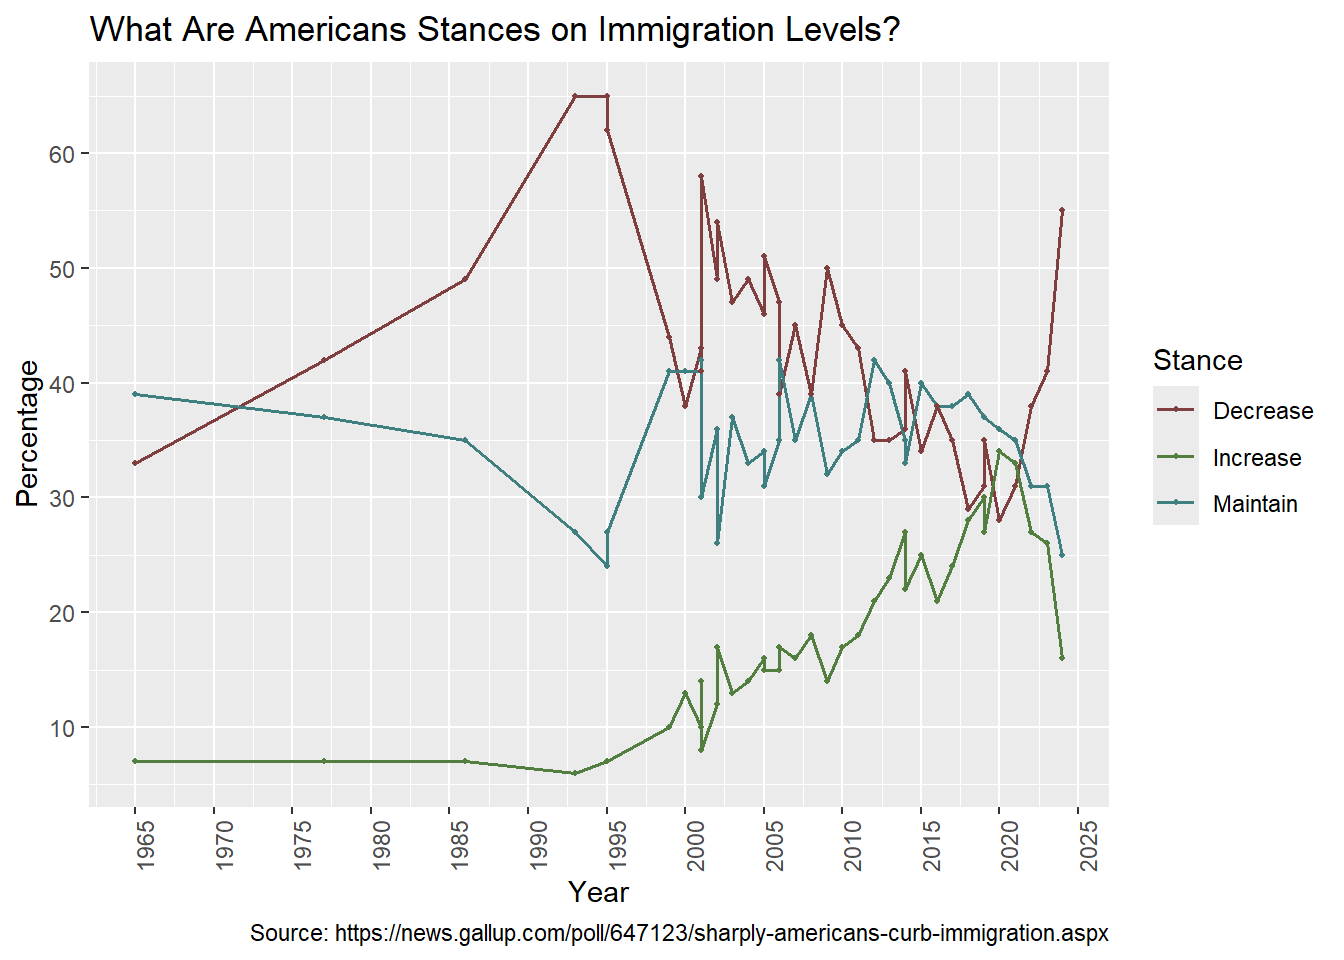
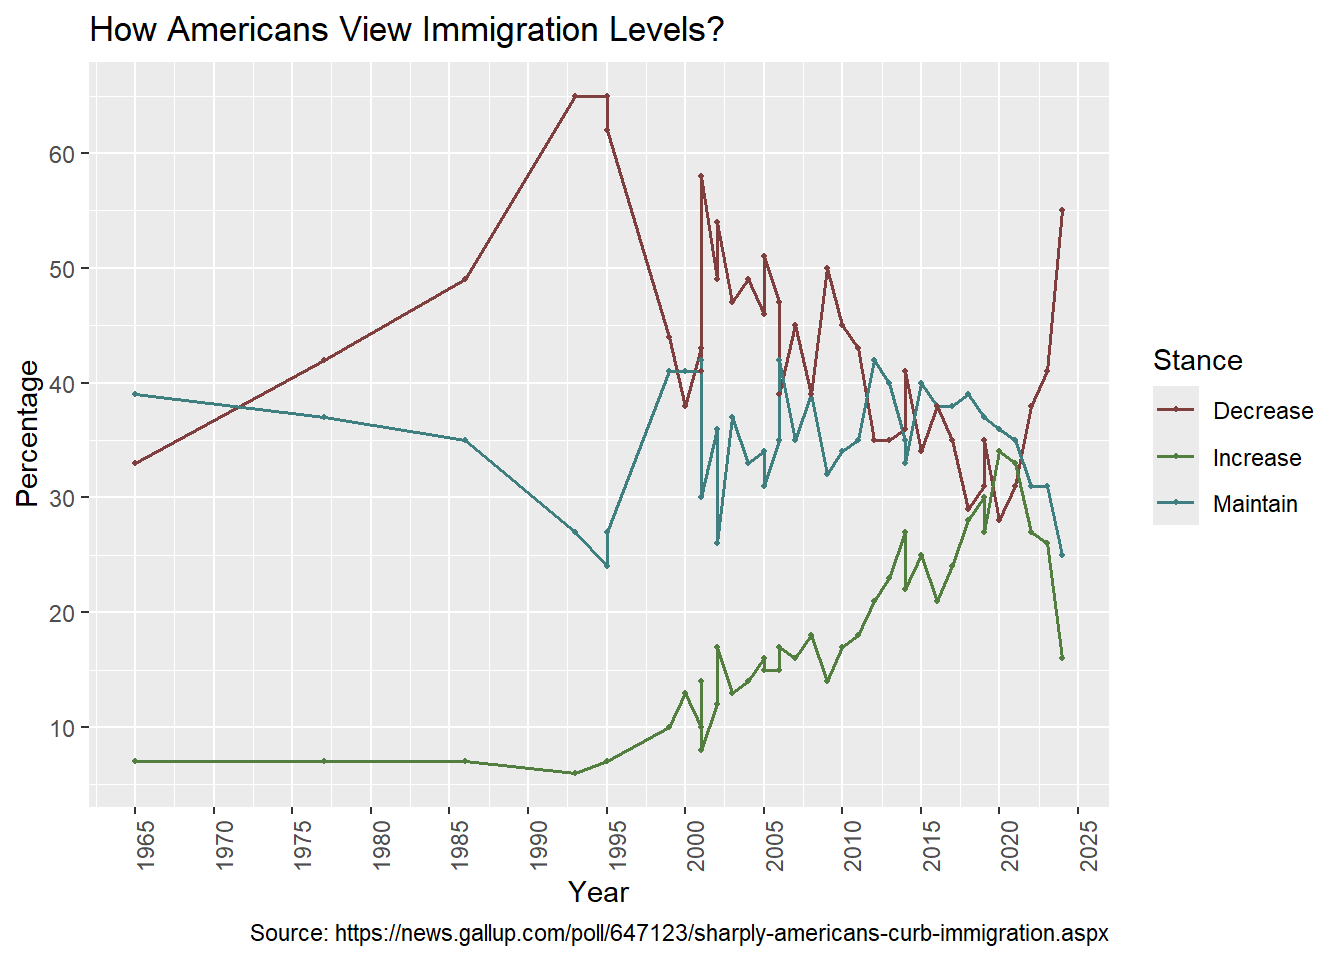
added additonal graphs in immigration section

Changed region(s): [[0.0625, 0.0, 0.6562, 0.0625]]

diff --git a/index.html b/index.html
@@ -411,6 +411,26 @@ pre > code.sourceCode > span > a:first-child::before { text-decoration: underlin
 </div>
 </div>
 <p>Sed ut perspiciatis unde omnis iste natus error sit voluptatem accusantium doloremque laudantium, totam rem aperiam, eaque ipsa quae ab illo inventore veritatis et quasi architecto beatae vitae dicta sunt explicabo. Nemo enim ipsam voluptatem quia voluptas sit aspernatur aut odit aut fugit, sed quia consequuntur magni dolores eos qui ratione voluptatem sequi nesciunt. Neque porro quisquam est, qui dolorem ipsum quia dolor sit amet, consectetur, adipisci velit, sed quia non numquam eius modi tempora incidunt ut labore et dolore magnam aliquam quaerat voluptatem. Ut enim ad minima veniam, quis nostrum exercitationem ullam corporis suscipit laboriosam, nisi ut aliquid ex ea commodi consequatur? Quis autem vel eum iure reprehenderit qui in ea voluptate velit esse quam nihil molestiae consequatur, vel illum qui dolorem eum fugiat quo voluptas nulla pariatur?</p>
+<div class="cell">
+<div class="cell-output-display">
+<div>
+<figure class="figure">
+<p><img src="analysis_files/figure-html/immigration_impact_chart-1.png" class="img-fluid figure-img" width="672"></p>
+</figure>
+</div>
+</div>
+</div>
+<p>Lorem ipsum dolor sit amet, consectetur adipiscing elit, sed do eiusmod tempor incididunt ut labore et dolore magna aliqua. Ut enim ad minim veniam, quis nostrud exercitation ullamco laboris nisi ut aliquip ex ea commodo consequat. Duis aute irure dolor in reprehenderit in voluptate velit esse cillum dolore eu fugiat nulla pariatur. Excepteur sint occaecat cupidatat non proident, sunt in culpa qui officia deserunt mollit anim id est laborum.</p>
+<div class="cell">
+<div class="cell-output-display">
+<div>
+<figure class="figure">
+<p><img src="analysis_files/figure-html/immigration_impact_party_chart-1.png" class="img-fluid figure-img" width="672"></p>
+</figure>
+</div>
+</div>
+</div>
+<p>Sed ut perspiciatis unde omnis iste natus error sit voluptatem accusantium doloremque laudantium, totam rem aperiam, eaque ipsa quae ab illo inventore veritatis et quasi architecto beatae vitae dicta sunt explicabo. Nemo enim ipsam voluptatem quia voluptas sit aspernatur aut odit aut fugit, sed quia consequuntur magni dolores eos qui ratione voluptatem sequi nesciunt. Neque porro quisquam est, qui dolorem ipsum quia dolor sit amet, consectetur, adipisci velit, sed quia non numquam eius modi tempora incidunt ut labore et dolore magnam aliquam quaerat voluptatem. Ut enim ad minima veniam, quis nostrum exercitationem ullam corporis suscipit laboriosam, nisi ut aliquid ex ea commodi consequatur? Quis autem vel eum iure reprehenderit qui in ea voluptate velit esse quam nihil molestiae consequatur, vel illum qui dolorem eum fugiat quo voluptas nulla pariatur?</p>
 </section>
 <section id="climate-change" class="level2">
 <h2 class="anchored" data-anchor-id="climate-change">Climate Change</h2>
@@ -1703,7 +1723,7 @@ window.document.addEventListener("DOMContentLoaded", function (event) {
 <span id="cb1-773"><a href="#cb1-773"></a><span class="in">    scale_y_continuous(breaks = seq(0, 100, 10)) +</span></span>
 <span id="cb1-774"><a href="#cb1-774"></a><span class="in">    labs(</span></span>
 <span id="cb1-775"><a href="#cb1-775"></a><span class="in">        title="How Positively Do Americans View Immigration?",</span></span>
-<span id="cb1-776"><a href="#cb1-776"></a><span class="in">        subtitle="How Americans View Immigration By Party/Political Affiliation",</span></span>
+<span id="cb1-776"><a href="#cb1-776"></a><span class="in">        subtitle="By Party/Political Affiliation",</span></span>
 <span id="cb1-777"><a href="#cb1-777"></a><span class="in">        x="Year",y="Percentage",</span></span>
 <span id="cb1-778"><a href="#cb1-778"></a><span class="in">        caption="Source: https://news.gallup.com/poll/647123/sharply-americans-curb-immigration.aspx",</span></span>
 <span id="cb1-779"><a href="#cb1-779"></a><span class="in">        color="Political Affiliation"</span></span>
@@ -1755,7 +1775,7 @@ window.document.addEventListener("DOMContentLoaded", function (event) {
 <span id="cb1-825"><a href="#cb1-825"></a><span class="in">            "Decrease" = "#7F3F3F"</span></span>
 <span id="cb1-826"><a href="#cb1-826"></a><span class="in">            )) +</span></span>
 <span id="cb1-827"><a href="#cb1-827"></a><span class="in">    labs(</span></span>
-<span id="cb1-828"><a href="#cb1-828"></a><span class="in">        title="What Are Americans Stances on Immigration Levels?",</span></span>
+<span id="cb1-828"><a href="#cb1-828"></a><span class="in">        title="How Americans View Immigration Levels?",</span></span>
 <span id="cb1-829"><a href="#cb1-829"></a><span class="in">        x="Year",y="Percentage",</span></span>
 <span id="cb1-830"><a href="#cb1-830"></a><span class="in">        caption="Source: https://news.gallup.com/poll/647123/sharply-americans-curb-immigration.aspx",</span></span>
 <span id="cb1-831"><a href="#cb1-831"></a><span class="in">        color="Stance"</span></span>
@@ -1804,55 +1824,128 @@ window.document.addEventListener("DOMContentLoaded", function (event) {
 <span id="cb1-874"><a href="#cb1-874"></a><span class="in">            "Maintain" = "#6A8C89"</span></span>
 <span id="cb1-875"><a href="#cb1-875"></a><span class="in">            )) +</span></span>
 <span id="cb1-876"><a href="#cb1-876"></a><span class="in">    labs(</span></span>
-<span id="cb1-877"><a href="#cb1-877"></a><span class="in">        title="How Americans View Immigration Levels By Party/Political Affiliation?",</span></span>
-<span id="cb1-878"><a href="#cb1-878"></a><span class="in">        y="",x="Percentage",</span></span>
-<span id="cb1-879"><a href="#cb1-879"></a><span class="in">        caption="Source: https://news.gallup.com/poll/647123/sharply-americans-curb-immigration.aspx",</span></span>
-<span id="cb1-880"><a href="#cb1-880"></a><span class="in">        fill="Stance"</span></span>
-<span id="cb1-881"><a href="#cb1-881"></a><span class="in">    ) +</span></span>
-<span id="cb1-882"><a href="#cb1-882"></a><span class="in">   theme(</span></span>
-<span id="cb1-883"><a href="#cb1-883"></a><span class="in">        axis.text.y = element_text(angle = 360)</span></span>
-<span id="cb1-884"><a href="#cb1-884"></a><span class="in">    )</span></span>
-<span id="cb1-885"><a href="#cb1-885"></a><span class="in">```</span></span>
-<span id="cb1-886"><a href="#cb1-886"></a></span>
-<span id="cb1-887"><a href="#cb1-887"></a>Sed ut perspiciatis unde omnis iste natus error sit voluptatem accusantium doloremque laudantium, totam rem aperiam, eaque ipsa quae ab illo inventore veritatis et quasi architecto beatae vitae dicta sunt explicabo. Nemo enim ipsam voluptatem quia voluptas sit aspernatur aut odit aut fugit, sed quia consequuntur magni dolores eos qui ratione voluptatem sequi nesciunt. Neque porro quisquam est, qui dolorem ipsum quia dolor sit amet, consectetur, adipisci velit, sed quia non numquam eius modi tempora incidunt ut labore et dolore magnam aliquam quaerat voluptatem. Ut enim ad minima veniam, quis nostrum exercitationem ullam corporis suscipit laboriosam, nisi ut aliquid ex ea commodi consequatur? Quis autem vel eum iure reprehenderit qui in ea voluptate velit esse quam nihil molestiae consequatur, vel illum qui dolorem eum fugiat quo voluptas nulla pariatur?</span>
-<span id="cb1-888"><a href="#cb1-888"></a></span>
-<span id="cb1-889"><a href="#cb1-889"></a><span class="fu">## Climate Change</span></span>
-<span id="cb1-890"><a href="#cb1-890"></a></span>
-<span id="cb1-891"><a href="#cb1-891"></a>W.I.P</span>
-<span id="cb1-892"><a href="#cb1-892"></a></span>
-<span id="cb1-893"><a href="#cb1-893"></a><span class="fu">## Democracy</span></span>
-<span id="cb1-894"><a href="#cb1-894"></a></span>
-<span id="cb1-895"><a href="#cb1-895"></a>W.I.P</span>
-<span id="cb1-896"><a href="#cb1-896"></a></span>
-<span id="cb1-897"><a href="#cb1-897"></a><span class="fu">## Economy</span></span>
-<span id="cb1-898"><a href="#cb1-898"></a></span>
-<span id="cb1-899"><a href="#cb1-899"></a>W.I.P</span>
-<span id="cb1-900"><a href="#cb1-900"></a></span>
-<span id="cb1-901"><a href="#cb1-901"></a><span class="fu">## Education</span></span>
-<span id="cb1-902"><a href="#cb1-902"></a></span>
-<span id="cb1-903"><a href="#cb1-903"></a>W.I.P</span>
-<span id="cb1-904"><a href="#cb1-904"></a></span>
-<span id="cb1-905"><a href="#cb1-905"></a><span class="fu">## Foreign Policy</span></span>
-<span id="cb1-906"><a href="#cb1-906"></a></span>
-<span id="cb1-907"><a href="#cb1-907"></a>W.I.P</span>
-<span id="cb1-908"><a href="#cb1-908"></a></span>
-<span id="cb1-909"><a href="#cb1-909"></a><span class="fu">## Healthcare</span></span>
-<span id="cb1-910"><a href="#cb1-910"></a></span>
-<span id="cb1-911"><a href="#cb1-911"></a>W.I.P</span>
-<span id="cb1-912"><a href="#cb1-912"></a></span>
-<span id="cb1-913"><a href="#cb1-913"></a><span class="fu">## LGBTQ+ Rights</span></span>
-<span id="cb1-914"><a href="#cb1-914"></a></span>
-<span id="cb1-915"><a href="#cb1-915"></a>W.I.P</span>
-<span id="cb1-916"><a href="#cb1-916"></a></span>
-<span id="cb1-917"><a href="#cb1-917"></a><span class="fu"># Prediction</span></span>
-<span id="cb1-918"><a href="#cb1-918"></a></span>
-<span id="cb1-919"><a href="#cb1-919"></a><span class="fu">## My Prediction</span></span>
-<span id="cb1-920"><a href="#cb1-920"></a></span>
-<span id="cb1-921"><a href="#cb1-921"></a>W.I.P</span>
-<span id="cb1-922"><a href="#cb1-922"></a></span>
-<span id="cb1-923"><a href="#cb1-923"></a><span class="fu">## Likely Scenarios</span></span>
-<span id="cb1-924"><a href="#cb1-924"></a></span>
-<span id="cb1-925"><a href="#cb1-925"></a>W.I.P</span></code><button title="Copy to Clipboard" class="code-copy-button" data-in-quarto-modal=""><i class="bi"></i></button></pre></div>
+<span id="cb1-877"><a href="#cb1-877"></a><span class="in">        title="How Americans View Immigration Levels?",</span></span>
+<span id="cb1-878"><a href="#cb1-878"></a><span class="in">        subtitle="By Party/Political Affiliation",</span></span>
+<span id="cb1-879"><a href="#cb1-879"></a><span class="in">        y="",x="Percentage",</span></span>
+<span id="cb1-880"><a href="#cb1-880"></a><span class="in">        caption="Source: https://news.gallup.com/poll/647123/sharply-americans-curb-immigration.aspx",</span></span>
+<span id="cb1-881"><a href="#cb1-881"></a><span class="in">        fill="Stance"</span></span>
+<span id="cb1-882"><a href="#cb1-882"></a><span class="in">    ) +</span></span>
+<span id="cb1-883"><a href="#cb1-883"></a><span class="in">   theme(</span></span>
+<span id="cb1-884"><a href="#cb1-884"></a><span class="in">        axis.text.y = element_text(angle = 360)</span></span>
+<span id="cb1-885"><a href="#cb1-885"></a><span class="in">    )</span></span>
+<span id="cb1-886"><a href="#cb1-886"></a><span class="in">```</span></span>
+<span id="cb1-887"><a href="#cb1-887"></a></span>
+<span id="cb1-888"><a href="#cb1-888"></a>Sed ut perspiciatis unde omnis iste natus error sit voluptatem accusantium doloremque laudantium, totam rem aperiam, eaque ipsa quae ab illo inventore veritatis et quasi architecto beatae vitae dicta sunt explicabo. Nemo enim ipsam voluptatem quia voluptas sit aspernatur aut odit aut fugit, sed quia consequuntur magni dolores eos qui ratione voluptatem sequi nesciunt. Neque porro quisquam est, qui dolorem ipsum quia dolor sit amet, consectetur, adipisci velit, sed quia non numquam eius modi tempora incidunt ut labore et dolore magnam aliquam quaerat voluptatem. Ut enim ad minima veniam, quis nostrum exercitationem ullam corporis suscipit laboriosam, nisi ut aliquid ex ea commodi consequatur? Quis autem vel eum iure reprehenderit qui in ea voluptate velit esse quam nihil molestiae consequatur, vel illum qui dolorem eum fugiat quo voluptas nulla pariatur?</span>
+<span id="cb1-889"><a href="#cb1-889"></a></span>
+<span id="cb1-890"><a href="#cb1-890"></a><span class="in">```{r, results='hide'}</span></span>
+<span id="cb1-891"><a href="#cb1-891"></a><span class="in">#| label: immigration_impact_data</span></span>
+<span id="cb1-892"><a href="#cb1-892"></a><span class="in">immigration_impact &lt;- read_csv('polling/immigration_impact.csv') |&gt;</span></span>
+<span id="cb1-893"><a href="#cb1-893"></a><span class="in">    pivot_longer(</span></span>
+<span id="cb1-894"><a href="#cb1-894"></a><span class="in">        `Candidate must share views`:`Not a major issue`,</span></span>
+<span id="cb1-895"><a href="#cb1-895"></a><span class="in">        names_to = "impact",</span></span>
+<span id="cb1-896"><a href="#cb1-896"></a><span class="in">        values_to = "pct"</span></span>
+<span id="cb1-897"><a href="#cb1-897"></a><span class="in">    ) </span></span>
+<span id="cb1-898"><a href="#cb1-898"></a><span class="in">```</span></span>
+<span id="cb1-899"><a href="#cb1-899"></a></span>
+<span id="cb1-900"><a href="#cb1-900"></a><span class="in">```{r, results='hide'}</span></span>
+<span id="cb1-901"><a href="#cb1-901"></a><span class="in">#| label: immigration_impact_chart</span></span>
+<span id="cb1-902"><a href="#cb1-902"></a><span class="in">ggplot(</span></span>
+<span id="cb1-903"><a href="#cb1-903"></a><span class="in">    immigration_impact,</span></span>
+<span id="cb1-904"><a href="#cb1-904"></a><span class="in">    aes(x=pct,y=stance,fill=impact)</span></span>
+<span id="cb1-905"><a href="#cb1-905"></a><span class="in">      ) +</span></span>
+<span id="cb1-906"><a href="#cb1-906"></a><span class="in">    geom_col() +</span></span>
+<span id="cb1-907"><a href="#cb1-907"></a><span class="in">    scale_fill_manual(</span></span>
+<span id="cb1-908"><a href="#cb1-908"></a><span class="in">        values = c(</span></span>
+<span id="cb1-909"><a href="#cb1-909"></a><span class="in">            "Candidate must share views" = "#254445",</span></span>
+<span id="cb1-910"><a href="#cb1-910"></a><span class="in">            "One of many important factors" = "#06874B",</span></span>
+<span id="cb1-911"><a href="#cb1-911"></a><span class="in">            "Not a major issue" = "#6A8C89"</span></span>
+<span id="cb1-912"><a href="#cb1-912"></a><span class="in">            )) +</span></span>
+<span id="cb1-913"><a href="#cb1-913"></a><span class="in">    labs(</span></span>
+<span id="cb1-914"><a href="#cb1-914"></a><span class="in">        title="How A Candidate's Immigration Stance Impacts Vote?",</span></span>
+<span id="cb1-915"><a href="#cb1-915"></a><span class="in">        y="",x="Percentage",</span></span>
+<span id="cb1-916"><a href="#cb1-916"></a><span class="in">        caption="Source: https://news.gallup.com/poll/647123/sharply-americans-curb-immigration.aspx",</span></span>
+<span id="cb1-917"><a href="#cb1-917"></a><span class="in">        fill="Impact"</span></span>
+<span id="cb1-918"><a href="#cb1-918"></a><span class="in">    ) +</span></span>
+<span id="cb1-919"><a href="#cb1-919"></a><span class="in">   theme(</span></span>
+<span id="cb1-920"><a href="#cb1-920"></a><span class="in">        axis.text.y = element_text(angle = 360)</span></span>
+<span id="cb1-921"><a href="#cb1-921"></a><span class="in">    )</span></span>
+<span id="cb1-922"><a href="#cb1-922"></a><span class="in">```</span></span>
+<span id="cb1-923"><a href="#cb1-923"></a></span>
+<span id="cb1-924"><a href="#cb1-924"></a>Lorem ipsum dolor sit amet, consectetur adipiscing elit, sed do eiusmod tempor incididunt ut labore et dolore magna aliqua. Ut enim ad minim veniam, quis nostrud exercitation ullamco laboris nisi ut aliquip ex ea commodo consequat. Duis aute irure dolor in reprehenderit in voluptate velit esse cillum dolore eu fugiat nulla pariatur. Excepteur sint occaecat cupidatat non proident, sunt in culpa qui officia deserunt mollit anim id est laborum.</span>
+<span id="cb1-925"><a href="#cb1-925"></a></span>
+<span id="cb1-926"><a href="#cb1-926"></a><span class="in">```{r, results='hide'}</span></span>
+<span id="cb1-927"><a href="#cb1-927"></a><span class="in">#| label: immigration_impact_party_data</span></span>
+<span id="cb1-928"><a href="#cb1-928"></a><span class="in">immigration_impact_party &lt;- read_csv('polling/immigration_impact_party.csv') |&gt; pivot_longer(</span></span>
+<span id="cb1-929"><a href="#cb1-929"></a><span class="in">        `Candidate must share views`:`Not a major issue`,</span></span>
+<span id="cb1-930"><a href="#cb1-930"></a><span class="in">        names_to = "impact",</span></span>
+<span id="cb1-931"><a href="#cb1-931"></a><span class="in">        values_to = "pct"</span></span>
+<span id="cb1-932"><a href="#cb1-932"></a><span class="in">    ) </span></span>
+<span id="cb1-933"><a href="#cb1-933"></a><span class="in">```</span></span>
+<span id="cb1-934"><a href="#cb1-934"></a></span>
+<span id="cb1-935"><a href="#cb1-935"></a><span class="in">```{r, results='hide'}</span></span>
+<span id="cb1-936"><a href="#cb1-936"></a><span class="in">#| label: immigration_impact_party_chart</span></span>
+<span id="cb1-937"><a href="#cb1-937"></a><span class="in">ggplot(</span></span>
+<span id="cb1-938"><a href="#cb1-938"></a><span class="in">    immigration_impact_party,</span></span>
+<span id="cb1-939"><a href="#cb1-939"></a><span class="in">    aes(x=pct,y=identification,fill=impact)</span></span>
+<span id="cb1-940"><a href="#cb1-940"></a><span class="in">      ) +</span></span>
+<span id="cb1-941"><a href="#cb1-941"></a><span class="in">    geom_col() +</span></span>
+<span id="cb1-942"><a href="#cb1-942"></a><span class="in">    scale_fill_manual(</span></span>
+<span id="cb1-943"><a href="#cb1-943"></a><span class="in">        values = c(</span></span>
+<span id="cb1-944"><a href="#cb1-944"></a><span class="in">            "Candidate must share views" = "#254445",</span></span>
+<span id="cb1-945"><a href="#cb1-945"></a><span class="in">            "One of many important factors" = "#06874B",</span></span>
+<span id="cb1-946"><a href="#cb1-946"></a><span class="in">            "Not a major issue" = "#6A8C89"</span></span>
+<span id="cb1-947"><a href="#cb1-947"></a><span class="in">            )) +</span></span>
+<span id="cb1-948"><a href="#cb1-948"></a><span class="in">    labs(</span></span>
+<span id="cb1-949"><a href="#cb1-949"></a><span class="in">        title="How A Candidate's Immigration Stance Impacts Vote?",</span></span>
+<span id="cb1-950"><a href="#cb1-950"></a><span class="in">        subtitle="By Party/Political Affiliation",</span></span>
+<span id="cb1-951"><a href="#cb1-951"></a><span class="in">        y="",x="Percentage",</span></span>
+<span id="cb1-952"><a href="#cb1-952"></a><span class="in">        caption="Source: https://news.gallup.com/poll/647123/sharply-americans-curb-immigration.aspx",</span></span>
+<span id="cb1-953"><a href="#cb1-953"></a><span class="in">        fill="Impact"</span></span>
+<span id="cb1-954"><a href="#cb1-954"></a><span class="in">    ) +</span></span>
+<span id="cb1-955"><a href="#cb1-955"></a><span class="in">   theme(</span></span>
+<span id="cb1-956"><a href="#cb1-956"></a><span class="in">        axis.text.y = element_text(angle = 360)</span></span>
+<span id="cb1-957"><a href="#cb1-957"></a><span class="in">    )</span></span>
+<span id="cb1-958"><a href="#cb1-958"></a><span class="in">```</span></span>
+<span id="cb1-959"><a href="#cb1-959"></a></span>
+<span id="cb1-960"><a href="#cb1-960"></a>Sed ut perspiciatis unde omnis iste natus error sit voluptatem accusantium doloremque laudantium, totam rem aperiam, eaque ipsa quae ab illo inventore veritatis et quasi architecto beatae vitae dicta sunt explicabo. Nemo enim ipsam voluptatem quia voluptas sit aspernatur aut odit aut fugit, sed quia consequuntur magni dolores eos qui ratione voluptatem sequi nesciunt. Neque porro quisquam est, qui dolorem ipsum quia dolor sit amet, consectetur, adipisci velit, sed quia non numquam eius modi tempora incidunt ut labore et dolore magnam aliquam quaerat voluptatem. Ut enim ad minima veniam, quis nostrum exercitationem ullam corporis suscipit laboriosam, nisi ut aliquid ex ea commodi consequatur? Quis autem vel eum iure reprehenderit qui in ea voluptate velit esse quam nihil molestiae consequatur, vel illum qui dolorem eum fugiat quo voluptas nulla pariatur?</span>
+<span id="cb1-961"><a href="#cb1-961"></a></span>
+<span id="cb1-962"><a href="#cb1-962"></a><span class="fu">## Climate Change</span></span>
+<span id="cb1-963"><a href="#cb1-963"></a></span>
+<span id="cb1-964"><a href="#cb1-964"></a>W.I.P</span>
+<span id="cb1-965"><a href="#cb1-965"></a></span>
+<span id="cb1-966"><a href="#cb1-966"></a><span class="fu">## Democracy</span></span>
+<span id="cb1-967"><a href="#cb1-967"></a></span>
+<span id="cb1-968"><a href="#cb1-968"></a>W.I.P</span>
+<span id="cb1-969"><a href="#cb1-969"></a></span>
+<span id="cb1-970"><a href="#cb1-970"></a><span class="fu">## Economy</span></span>
+<span id="cb1-971"><a href="#cb1-971"></a></span>
+<span id="cb1-972"><a href="#cb1-972"></a>W.I.P</span>
+<span id="cb1-973"><a href="#cb1-973"></a></span>
+<span id="cb1-974"><a href="#cb1-974"></a><span class="fu">## Education</span></span>
+<span id="cb1-975"><a href="#cb1-975"></a></span>
+<span id="cb1-976"><a href="#cb1-976"></a>W.I.P</span>
+<span id="cb1-977"><a href="#cb1-977"></a></span>
+<span id="cb1-978"><a href="#cb1-978"></a><span class="fu">## Foreign Policy</span></span>
+<span id="cb1-979"><a href="#cb1-979"></a></span>
+<span id="cb1-980"><a href="#cb1-980"></a>W.I.P</span>
+<span id="cb1-981"><a href="#cb1-981"></a></span>
+<span id="cb1-982"><a href="#cb1-982"></a><span class="fu">## Healthcare</span></span>
+<span id="cb1-983"><a href="#cb1-983"></a></span>
+<span id="cb1-984"><a href="#cb1-984"></a>W.I.P</span>
+<span id="cb1-985"><a href="#cb1-985"></a></span>
+<span id="cb1-986"><a href="#cb1-986"></a><span class="fu">## LGBTQ+ Rights</span></span>
+<span id="cb1-987"><a href="#cb1-987"></a></span>
+<span id="cb1-988"><a href="#cb1-988"></a>W.I.P</span>
+<span id="cb1-989"><a href="#cb1-989"></a></span>
+<span id="cb1-990"><a href="#cb1-990"></a><span class="fu"># Prediction</span></span>
+<span id="cb1-991"><a href="#cb1-991"></a></span>
+<span id="cb1-992"><a href="#cb1-992"></a><span class="fu">## My Prediction</span></span>
+<span id="cb1-993"><a href="#cb1-993"></a></span>
+<span id="cb1-994"><a href="#cb1-994"></a>W.I.P</span>
+<span id="cb1-995"><a href="#cb1-995"></a></span>
+<span id="cb1-996"><a href="#cb1-996"></a><span class="fu">## Likely Scenarios</span></span>
+<span id="cb1-997"><a href="#cb1-997"></a></span>
+<span id="cb1-998"><a href="#cb1-998"></a>W.I.P</span></code><button title="Copy to Clipboard" class="code-copy-button" data-in-quarto-modal=""><i class="bi"></i></button></pre></div>
 </div></div></div></div></div>
 </div> <!-- /content -->
 
